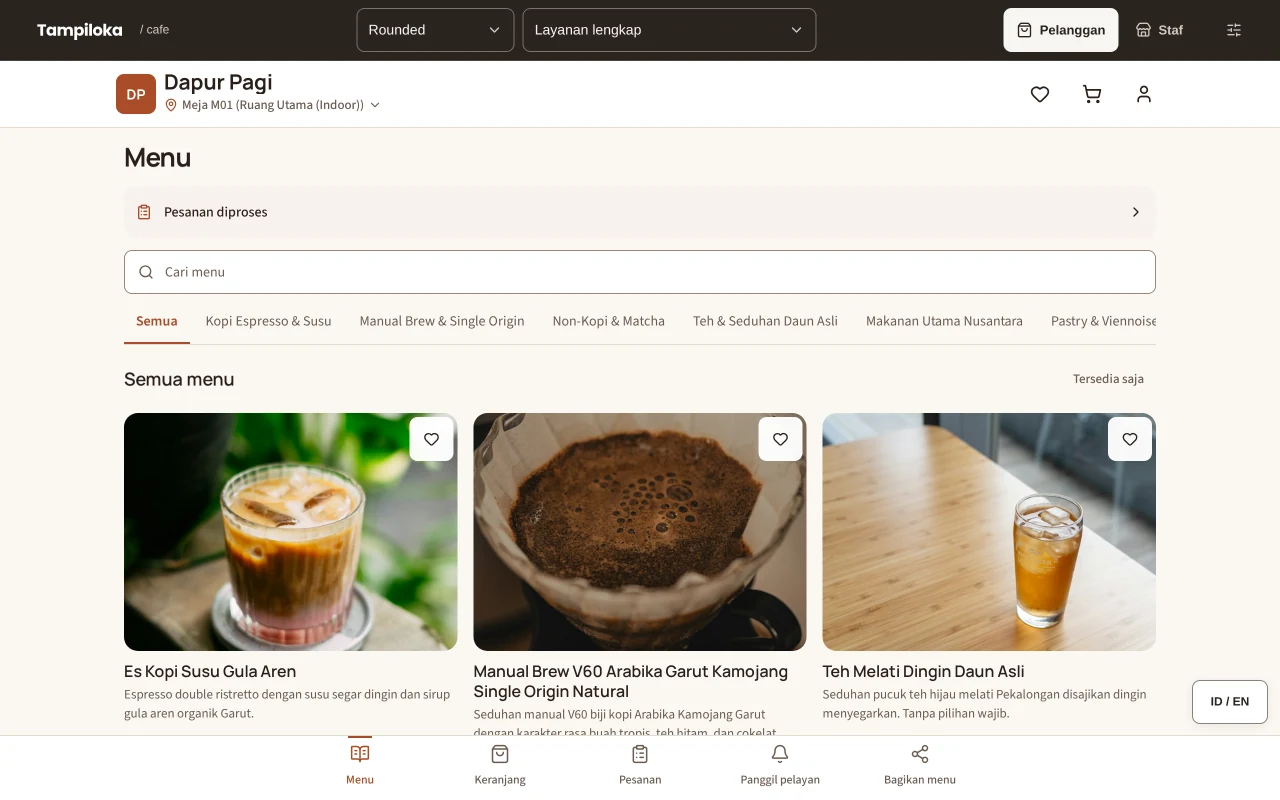
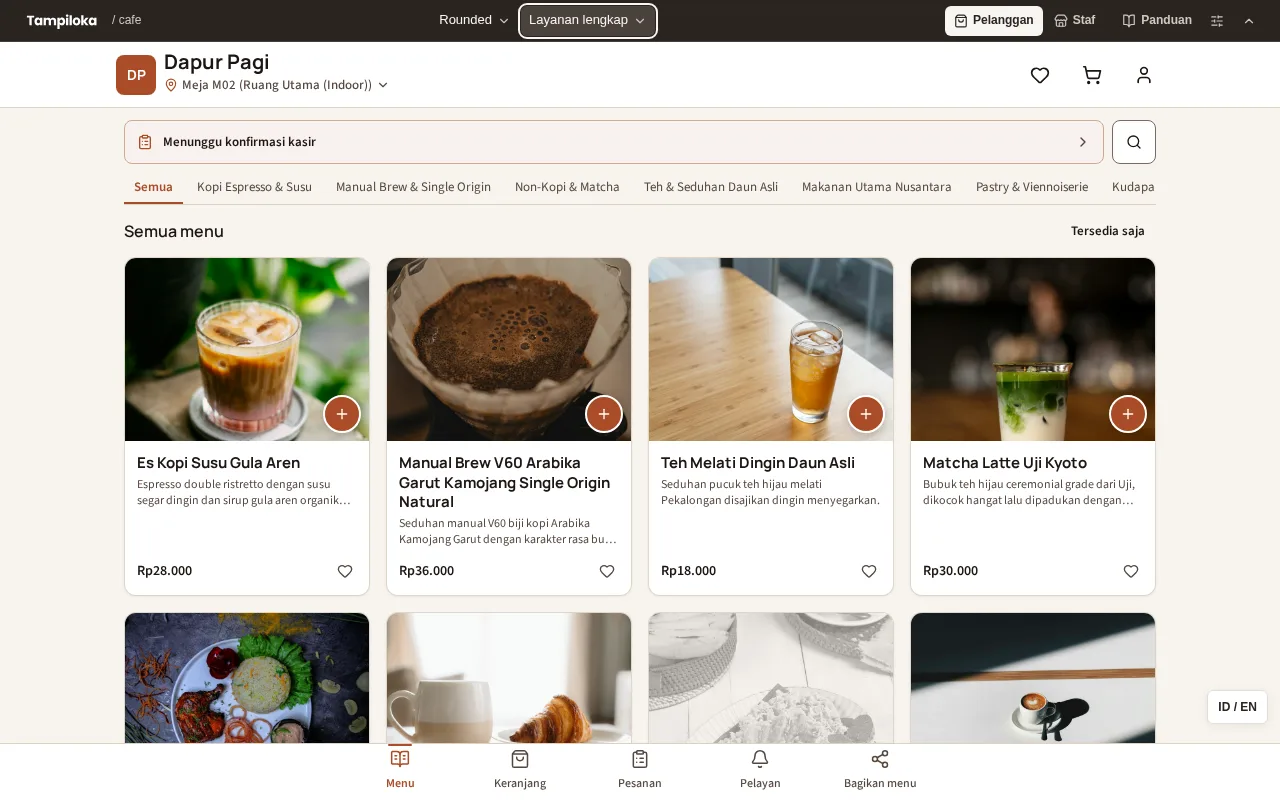
feat(cafe): simplify demo options to 4 visual styles and 4 core modes (#53)

diff --git a/templates/cafe/demos/manifest.ts b/templates/cafe/demos/manifest.ts
@@ -6,15 +6,17 @@ export const DEMO_HUB = `https://cafe.${DEMO_DOMAIN}`;
 
 const definitions: Array<[string, string, string, string, string, ThemeId]> = [
   ['catalog', 'Menu dan permintaan pelayan', 'Pelanggan memilih menu dan menyampaikan daftar pesanan kepada pelayan. Pembayaran dilakukan langsung di kafe.', 'Untuk layanan meja tanpa kasir digital atau pembayaran online.', 'cafe-catalog', 'editorial'],
-  ['order-at-cashier', 'Pesan, bayar di kasir', 'Pelanggan mengirim pesanan dari meja, lalu membayar melalui kasir.', 'Untuk pemesanan mandiri dengan pembayaran di tempat.', 'cafe-order', 'rounded'],
-  ['order-and-pay', 'Pesan dan bayar', 'Pelanggan memilih menu, mengirim pesanan, dan mencoba simulasi pembayaran online.', 'Untuk mencoba alur pesan dan bayar dari meja.', 'cafe-pay', 'airy'],
+  ['order-at-cashier', 'Menu & pesan di meja', 'Pelanggan mengirim pesanan dari meja, lalu membayar melalui kasir.', 'Untuk pemesanan mandiri dengan pembayaran di tempat.', 'cafe-order', 'rounded'],
+  ['order-and-pay', 'Pesan & bayar online', 'Pelanggan memilih menu, mengirim pesanan, dan mencoba simulasi pembayaran online.', 'Untuk mencoba alur pesan dan bayar dari meja.', 'cafe-pay', 'airy'],
   ['cashier', 'Kasir', 'Staf mencatat pesanan, menerapkan diskon, menerima uang tunai, dan mengelola giliran kerja.', 'Untuk melayani pesanan langsung di kasir.', 'cafe-pos', 'boxy'],
   ['cashier-kitchen', 'Kasir dan dapur', 'Pesanan yang dicatat kasir masuk ke antrean persiapan dapur dan bar.', 'Untuk tim kasir dan dapur yang bekerja bersama.', 'cafe-kitchen', 'playful'],
-  ['operations', 'Operasional kafe', 'Kelola pesanan di kasir, pantau persiapan, dan lihat laporan dalam satu ruang staf.', 'Untuk memantau pekerjaan dan penjualan harian.', 'cafe-operations', 'boxy'],
+  ['operations', 'Kasir & dapur', 'Kelola pesanan di kasir, pantau persiapan, dan lihat laporan dalam satu ruang staf.', 'Untuk memantau pekerjaan dan penjualan harian.', 'cafe-operations', 'boxy'],
   ['menu-cashier', 'Menu dan kasir', 'Pelanggan melihat menu, sementara staf mencatat dan mengelola pesanan.', 'Untuk menu digital dengan pemesanan melalui staf.', 'cafe-menu-pos', 'rounded'],
   ['menu-order-cashier', 'Menu, pesanan, dan kasir', 'Pelanggan memesan dari meja; kasir mengelola tagihan dan pembayaran.', 'Untuk layanan meja dengan kasir yang mengelola tagihan.', 'cafe-menu-order-pos', 'editorial'],
   ['full', 'Layanan lengkap', 'Coba alur pelanggan, kasir, dapur, layanan meja, dan laporan dalam satu demo.', 'Untuk melihat bagaimana seluruh bagian layanan bekerja bersama.', 'cafe-full', 'rounded'],
 ];
+
+export const PRIMARY_DEMO_IDS = ['order-at-cashier', 'order-and-pay', 'operations', 'full'] as const;
 
 export const DEMOS: DemoPreset[] = definitions.map(([id, name, description, useCase, subdomain, theme]) => ({
   id, name, description, useCase, subdomain, theme,
@@ -23,13 +25,17 @@ export const DEMOS: DemoPreset[] = definitions.map(([id, name, description, useC
   ...(PRESETS[id].modules.some(module => ['ordering', 'cashier', 'kitchen', 'dashboard', 'tables', 'marketing'].includes(module)) ? { staffPath: '/staff' } : {}),
 }));
 
+export const PRIMARY_DEMOS: DemoPreset[] = PRIMARY_DEMO_IDS
+  .map(id => DEMOS.find(demo => demo.id === id))
+  .filter((demo): demo is DemoPreset => Boolean(demo));
+
 const english: Record<string, [string, string, string]> = {
   catalog: ['Menu and waiter requests', 'Customers choose items and share their order with a waiter. Payment is made at the cafe.', 'For table service without a digital cashier or online payment.'],
-  'order-at-cashier': ['Order, pay at the counter', 'Customers order from their table, then pay at the counter.', 'For self-service ordering with payment on site.'],
-  'order-and-pay': ['Order and pay', 'Customers choose items, place an order and try a simulated online payment.', 'Try ordering and paying from a table.'],
+  'order-at-cashier': ['Menu & table ordering', 'Customers order from their table, then pay at the counter.', 'For self-service ordering with payment on site.'],
+  'order-and-pay': ['Order & pay online', 'Customers choose items, place an order and try a simulated online payment.', 'Try ordering and paying from a table.'],
   cashier: ['Cashier', 'Staff record orders, apply discounts, accept cash and manage shifts.', 'For serving orders directly at the counter.'],
   'cashier-kitchen': ['Cashier and kitchen', 'Orders entered at the counter reach the kitchen and bar preparation queue.', 'For cashier and kitchen teams working together.'],
-  operations: ['Cafe operations', 'Manage counter orders, monitor preparation and view reports in one staff workspace.', 'For monitoring daily work and sales.'],
+  operations: ['Cashier & kitchen', 'Manage counter orders, monitor preparation and view reports in one staff workspace.', 'For monitoring daily work and sales.'],
   'menu-cashier': ['Menu and cashier', 'Customers browse the menu while staff record and manage orders.', 'For a digital menu with staff-assisted ordering.'],
   'menu-order-cashier': ['Menu, orders and cashier', 'Customers order from their table; cashiers manage bills and payments.', 'For table service with cashier-managed billing.'],
   full: ['Full service', 'Try the customer, cashier, kitchen, table service and reporting flows in one demo.', 'See how all parts of service work together.'],
@@ -40,11 +46,16 @@ export function localizeDemo(demo: DemoPreset, language: 'id' | 'en'): DemoPrese
   return translation ? { ...demo, name: translation[0], description: translation[1], useCase: translation[2] } : demo;
 }
 
-/** Canonical hosts select one preset; /p/<id> also supports local/Pages previews. */
-export function resolveDemo(hostname: string, pathname: string): DemoPreset | undefined {
+/** Canonical hosts select one preset; /p/<id> and ?mode=<id> also support hub/preview links. */
+export function resolveDemo(hostname: string, pathname: string, search = ''): DemoPreset | undefined {
   // Explicit mode paths take priority so the switcher can stay on the same origin.
   const pathId = pathname.match(/^\/p\/([^/]+)/)?.[1];
   if (pathId) return DEMOS.find(demo => demo.id === pathId);
+  const queryId = search ? new URLSearchParams(search).get('mode') : null;
+  if (queryId) {
+    const matched = DEMOS.find(demo => demo.id === queryId);
+    if (matched) return matched;
+  }
   const outlet = pathname.match(/^\/(?:t|staff)\/[^/]+\/([^/]+)/)?.[1];
   if (outlet) return DEMOS.find(demo => demo.subdomain === outlet);
   return DEMOS.find(demo => hostname === `${demo.subdomain}.${DEMO_DOMAIN}`);
@@ -68,17 +79,20 @@ export function demoNavigationUrl(demo: DemoPreset, view: 'pelanggan' | 'staf', 
   const wasStaff = /\/staff(?:\/|$)/.test(url.pathname);
   if (!sameMode) {
     url.pathname = demoNavigationPath(demo, view, url.hostname);
-    for (const key of ['bill', 'table', 'principal']) url.searchParams.delete(key);
+    for (const key of ['bill', 'table', 'principal', 'mode']) url.searchParams.delete(key);
     url.hash = '';
   } else if (view === 'staf') {
-    if (!wasStaff) url.pathname = demoNavigationPath(demo, view, url.hostname);
+    if (!wasStaff) {
+      url.pathname = demoNavigationPath(demo, view, url.hostname);
+      url.searchParams.delete('mode');
+    }
   } else if (wasStaff) {
     let restored = false;
     if (options.customerRoute) {
       try {
         const previous = new URL(options.customerRoute, url);
         const defaultCustomerRoute = previous.pathname === '/' || /^\/m\/[^/]+\/?$/.test(previous.pathname);
-        const previousMode = resolveDemo(previous.hostname, previous.pathname)?.id || (defaultCustomerRoute ? 'full' : undefined);
+        const previousMode = resolveDemo(previous.hostname, previous.pathname, previous.search)?.id || (defaultCustomerRoute ? 'full' : undefined);
         if (previous.origin === url.origin && previousMode === demo.id && !/\/staff(?:\/|$)/.test(previous.pathname)) {
           for (const key of new Set(url.searchParams.keys())) previous.searchParams.delete(key);
           for (const [key, value] of url.searchParams) previous.searchParams.append(key, value);
@@ -88,7 +102,10 @@ export function demoNavigationUrl(demo: DemoPreset, view: 'pelanggan' | 'staf', 
         }
       } catch { /* A stale stored route falls back to this mode's customer entry. */ }
     }
-    if (!restored) url.pathname = demoNavigationPath(demo, view, url.hostname);
+    if (!restored) {
+      url.pathname = demoNavigationPath(demo, view, url.hostname);
+      url.searchParams.delete('mode');
+    }
   }
   url.searchParams.set('theme', options.theme);
   url.searchParams.set('lang', options.language);
@@ -100,8 +117,8 @@ export function demoBasePath(demo: DemoPreset): string {
 }
 
 export function portalDemos(): DemoPreset[] {
-  if (location.hostname === `cafe.${DEMO_DOMAIN}`) return DEMOS;
-  return DEMOS.map(demo => ({ ...demo,
+  if (location.hostname === `cafe.${DEMO_DOMAIN}`) return PRIMARY_DEMOS;
+  return PRIMARY_DEMOS.map(demo => ({ ...demo,
     ...(demo.customerPath ? { customerUrl: `/p/${demo.id}/` } : {}),
     ...(demo.staffPath ? { staffUrl: `/p/${demo.id}/staff` } : {}),
   }));

diff --git a/templates/cafe/demos/workspace.tsx b/templates/cafe/demos/workspace.tsx
@@ -4,7 +4,7 @@ import { DemoToolbarShell } from '@tampiloka/ui-core/demo';
 import { KafeWorkspace, type WorkspaceView } from '../components/cafe/kafe-workspace';
 import { Select, SelectContent, SelectItem, SelectTrigger, SelectValue } from '../components/ui/select';
 import { cafeConfig, hasStaffModules, isModuleEnabled, THEMES, type ThemeId } from './config';
-import { DEMOS, demoNavigationPath, demoNavigationUrl, localizeDemo } from './manifest';
+import { DEMOS, PRIMARY_DEMOS, demoNavigationPath, demoNavigationUrl, localizeDemo } from './manifest';
 import type { DemoPreset } from './components/demo-portal';
 import type { DemoSeedLevel } from '../src/db/seed';
 import { DemoTools } from './components/demo-tools';
@@ -239,6 +239,7 @@ export default function DemoWorkspace({ demo, initialGuideView }: { demo: DemoPr
     }
   };
 
+  const modeOptions = PRIMARY_DEMOS.some(item => item.id === demo.id) ? PRIMARY_DEMOS : [...PRIMARY_DEMOS, demo];
   const staffRole = prepared?.staff.find(person => person.id === demoStaffId)?.role;
   return <div className="demo-session" data-demo-view={activeView} data-table-entry={showTableEntry ? "true" : undefined}>
     <DemoToolbarShell family="cafe" label={t('Pengaturan demo Tampiloka', 'Tampiloka demo settings')} galleryLabel={t('Kembali ke template Tampiloka', 'Back to Tampiloka templates')} galleryUrl={gallery}
@@ -249,7 +250,7 @@ export default function DemoWorkspace({ demo, initialGuideView }: { demo: DemoPr
         </Select>
         <Select value={demo.id} onValueChange={changeMode}>
           <SelectTrigger className="tl-demo-select" aria-label={t('Mode demo', 'Demo mode')}><SelectValue /></SelectTrigger>
-          <SelectContent className="tl-demo-select-menu" position="popper" align="start" sideOffset={6}>{DEMOS.map(item => <SelectItem key={item.id} value={item.id}>{localizeDemo(item, language).name}</SelectItem>)}</SelectContent>
+          <SelectContent className="tl-demo-select-menu" position="popper" align="start" sideOffset={6}>{modeOptions.map(item => <SelectItem key={item.id} value={item.id}>{localizeDemo(item, language).name}</SelectItem>)}</SelectContent>
         </Select>
         {activeView === 'staf' && prepared && prepared.staff.length > 0 && demoStaffId && <Select value={demoStaffId} onValueChange={changeStaff}>
           <SelectTrigger className="tl-demo-select" aria-label={t('Identitas staf demo', 'Demo staff identity')}><SelectValue /></SelectTrigger>

diff --git a/templates/cafe/demos/configuration.ts b/templates/cafe/demos/configuration.ts
@@ -3,7 +3,7 @@ import { DEMOS, resolveDemo } from './manifest.ts';
 
 /** Resolve every launcher (preset, role and table route) to its preset config. */
 export function resolveDemoConfiguration(rawConfig: unknown, location?: Pick<Location, 'hostname' | 'pathname' | 'search'>) {
-  const activeDemo = location ? resolveDemo(location.hostname, location.pathname) || DEMOS.find(demo => demo.id === 'full') : undefined;
+  const activeDemo = location ? resolveDemo(location.hostname, location.pathname, location.search) || DEMOS.find(demo => demo.id === 'full') : undefined;
   const base = applyPreset(validateConfig(rawConfig), activeDemo?.id || 'full');
   const requestedTheme = location ? new URLSearchParams(location.search).get('theme') : null;
   const config = validateConfig({
